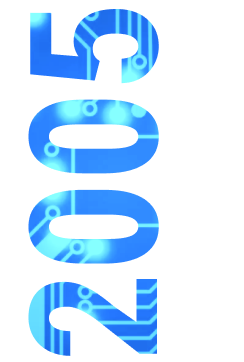
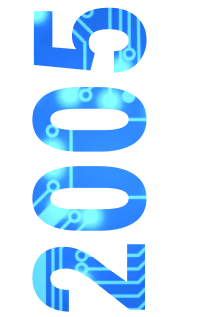
Добавлен блок о компании

diff --git a/source/index.html b/source/index.html
@@ -52,48 +52,69 @@
           </picture>
         </div>
       </section>
-      <section class="features wrapper wrapper--small">
-        <h2 class="visually-hidden">Наши преимущества</h2>
-        <ul class="features__list list-reset">
-          <li class="features__item features__item--timing">
-            <svg width="29" height="35" viewBox="0 0 29 35" fill="#00B2FF">
-              <use xlink:href="img/svg/sprite.svg#timing"></use>
-            </svg>
-            <h3 class="title">Оперативные сроки</h3>
+      <div class="bg-container">
+        <section class="features wrapper wrapper--small">
+          <h2 class="visually-hidden">Наши преимущества</h2>
+          <ul class="features__list list-reset">
+            <li class="features__item features__item--timing">
+              <svg width="29" height="35" viewBox="0 0 29 35" fill="#00B2FF">
+                <use xlink:href="img/svg/sprite.svg#timing"></use>
+              </svg>
+              <h3 class="title">Оперативные сроки</h3>
+              <p>
+                Усовершенствованная логистическая система позволяет нам просчитывать стоимость, производить и доставлять
+                заказы плат и комплектующих в самые короткие сроки
+              </p>
+            </li>
+            <li class="features__item features__item--suppliers">
+              <svg width="35" height="35" viewBox="0 0 35 35" fill="#00B2FF">
+                <use xlink:href="img/svg/sprite.svg#suppliers"></use>
+              </svg>
+              <h3 class="title">Крупные поставщики</h3>
+              <p>
+                Нашими поставщиками являются такие крупные мировые компании как: OSRAM, CREE, HOLGLITRONIC, REFOND.
+                Сотрудничество с такими компаниями обеспичивает хорошее качество нашей продукции.
+              </p>
+            </li>
+            <li class="features__item features__item--confidentiality">
+              <svg width="36" height="31" viewBox="0 0 36 31" fill="#00B2FF">
+                <use xlink:href="img/svg/sprite.svg#confidentiality"></use>
+              </svg>
+              <h3 class="title">Полная конфиденциальность</h3>
+              <p>По желанию клиента мы обеспечиваем полную конфеденциальность.</p>
+            </li>
+            <li class="features__item features__item--price">
+              <svg width="35" height="35" viewBox="0 0 35 35" fill="#00B2FF">
+                <use xlink:href="img/svg/sprite.svg#price"></use>
+              </svg>
+              <h3 class="title">Персонализация стоимости</h3>
+              <p>
+                Мы подбираем определенную фабрику, поставщиков, вид доставки, чтобы установить ту цену, которая Вас
+                устраивает.
+              </p>
+            </li>
+          </ul>
+        </section>
+        <section class="info wrapper wrapper--small">
+          <div class="info__wrapper">
+            <h2 class="title">О компании</h2>
             <p>
-              Усовершенствованная логистическая система позволяет нам просчитывать стоимость, производить и доставлять
-              заказы плат и комплектующих в самые короткие сроки
+              Мы поставляем электронные комплектующие, производим печатные платы и предоставляем мировые технологии с
+              1997 года. Выполняем срочные заказы и пилотные образцы до 10 дней.
             </p>
-          </li>
-          <li class="features__item features__item--suppliers">
-            <svg width="35" height="35" viewBox="0 0 35 35" fill="#00B2FF">
-              <use xlink:href="img/svg/sprite.svg#suppliers"></use>
-            </svg>
-            <h3 class="title">Крупные поставщики</h3>
             <p>
-              Нашими поставщиками являются такие крупные мировые компании как: OSRAM, CREE, HOLGLITRONIC, REFOND.
-              Сотрудничество с такими компаниями обеспичивает хорошее качество нашей продукции.
+              Наши поставщики - мировые производители электронных компонентов: OSRAM, CREE, HOLGLITRONIC, REFOND.
+              Печатные платы и комплектующие Service Devices применяются на предприятиях Российских Железных Дорог
+              <span class="info__text-short">..</span
+              ><span class="info__text-long"
+                >(РЖД), РоссАвтоПрома (ВАЗ, АвтоГАЗ), МинАтома, СпецМедТехники. Среди наших клиентов крупнейшие
+                Производители светотехники России.</span
+              >
             </p>
-          </li>
-          <li class="features__item features__item--confidentiality">
-            <svg width="36" height="31" viewBox="0 0 36 31" fill="#00B2FF">
-              <use xlink:href="img/svg/sprite.svg#confidentiality"></use>
-            </svg>
-            <h3 class="title">Полная конфиденциальность</h3>
-            <p>По желанию клиента мы обеспечиваем полную конфеденциальность.</p>
-          </li>
-          <li class="features__item features__item--price">
-            <svg width="35" height="35" viewBox="0 0 35 35" fill="#00B2FF">
-              <use xlink:href="img/svg/sprite.svg#price"></use>
-            </svg>
-            <h3 class="title">Персонализация стоимости</h3>
-            <p>
-              Мы подбираем определенную фабрику, поставщиков, вид доставки, чтобы установить ту цену, которая Вас
-              устраивает.
-            </p>
-          </li>
-        </ul>
-      </section>
+            <a href="#" class="info__link button button--colorized">Подробнее</a>
+          </div>
+        </section>
+      </div>
     </main>
     <footer class="footer">
       <div class="footer__wrapper wrapper">

diff --git a/source/sass/blocks/features.scss b/source/sass/blocks/features.scss
@@ -1,0 +1,105 @@
+.features {
+  padding-top: 110px;
+  padding-bottom: 110px;
+
+  @media (max-width: $tablet-width-max) {
+    padding-top: 54px;
+    padding-bottom: 60px;
+  }
+
+  @media (max-width: $mobile-width-max) {
+    padding-top: 37px;
+  }
+}
+
+.features__list {
+  display: flex;
+  flex-wrap: wrap;
+  justify-content: space-between;
+  margin-bottom: -30px;
+
+  @media (max-width: $mobile-width-max) {
+    flex-direction: column;
+    align-items: center;
+    margin-bottom: -30px;
+  }
+}
+
+.features__item {
+  position: relative;
+  box-sizing: border-box;
+  margin-bottom: 30px;
+  padding: 98px 43px 65px;
+  width: 48.7%;
+  background-color: $white;
+  border: 1px solid $decoration-gray;
+  border-left-width: 3px;
+  border-left-color: $blue;
+
+  &:hover {
+    background-color: $blue;
+    border-color: $blue;
+
+    svg {
+      fill: $white;
+    }
+
+    h3,
+    p {
+      color: $white;
+    }
+  }
+
+  svg {
+    position: absolute;
+    left: 43px;
+    top: 40px;
+  }
+
+  h3 {
+    margin-bottom: 15px;
+    color: $blue;
+    font-size: 24px;
+    line-height: 33.75px;
+  }
+
+  p {
+    margin: 0;
+    color: $dark-gray;
+  }
+
+  @media (max-width: $tablet-width-max) {
+    padding: 69px 25px 22px;
+    border-left-width: 2px;
+
+    svg {
+      left: 25px;
+      top: 24px;
+    }
+  }
+
+  @media (max-width: $mobile-width-max) {
+    padding-top: 71px;
+    margin-bottom: 30px;
+    width: 290px;
+
+    &--timing {
+      padding-bottom: 26px;
+    }
+
+    &--suppliers {
+      padding-right: 12px;
+      padding-bottom: 30px;
+    }
+
+    &--confidentiality {
+      padding-right: 12px;
+      padding-bottom: 59px;
+    }
+
+    h3 {
+      font-size: 20px;
+      line-height: 28.13px;
+    }
+  }
+}

diff --git a/source/sass/blocks/info.scss b/source/sass/blocks/info.scss
@@ -1,0 +1,100 @@
+.info {
+  padding-bottom: 110px;
+  color: $dark-gray;
+
+  h2 {
+    margin-bottom: 18px;
+    font-size: 36px;
+    line-height: 50.63px;
+  }
+
+  p {
+    margin: 0;
+  }
+
+  p:first-of-type {
+    margin-bottom: 23px;
+  }
+
+  @media (max-width: $tablet-width-max) {
+    padding-bottom: 83px;
+
+    h2 {
+      font-size: 32px;
+      line-height: 45px;
+    }
+
+    p:first-of-type {
+      margin-bottom: 21px;
+    }
+  }
+
+  @media (max-width: $mobile-width-max) {
+    padding-bottom: 65px;
+
+    h2 {
+      font-size: 28px;
+      line-height: 39px;
+    }
+
+    p:first-of-type {
+      margin-bottom: 44px;
+    }
+  }
+}
+
+.info__wrapper {
+  position: relative;
+  padding-left: 180px;
+
+  &::before {
+    content: "";
+    position: absolute;
+    top: 0;
+    left: -30px;
+    width: 180px;
+    height: 317px;
+    background-image: url("../img/year@1x.png");
+    background-size: cover;
+  }
+
+  @media (max-width: $tablet-width-max) {
+    padding-left: 185px;
+
+    &::before {
+      height: 361px;
+    }
+  }
+
+  @media (max-width: $mobile-width-max) {
+    padding-left: 0;
+
+    &::before {
+      display: none;
+    }
+  }
+}
+
+.info__text-long {
+  @media (max-width: $tablet-width-max) {
+    display: none;
+  }
+}
+
+.info__text-short {
+  display: none;
+
+  @media (max-width: $tablet-width-max) {
+    display: inline-block;
+    margin-left: -10px;
+  }
+}
+
+.info__link {
+  margin-top: 40px;
+  min-width: 180px;
+
+  @media (max-width: $mobile-width-max) {
+    margin-top: 30px;
+  }
+}

diff --git a/source/sass/blocks/bg-container.scss b/source/sass/blocks/bg-container.scss
@@ -1,0 +1,14 @@
+.bg-container {
+  background-image: url("../img/svg/bg-features-desktop.svg");
+  background-repeat: no-repeat;
+  background-position: -290px -50px;
+
+  @media (max-width: $tablet-width-max) {
+    background-image: url("../img/svg/bg-features-tablet.svg");
+    background-position: 200px 145px;
+  }
+
+  @media (max-width: $mobile-width-max) {
+    background-position: -120px 652px;
+  }
+}

diff --git a/source/sass/blocks/button.scss b/source/sass/blocks/button.scss
@@ -1,4 +1,6 @@
 .button {
+  display: inline-block;
+  vertical-align: top;
   box-sizing: border-box;
   padding: 15px 12px 12px;
   background-color: transparent;
@@ -12,6 +14,11 @@
   letter-spacing: 0.05em;
   text-transform: uppercase;
   text-align: center;
+
+  &--colorized {
+    color: $blue;
+    border-color: $blue;
+  }
 
   &:hover,
   &:focus {

diff --git a/source/sass/style.scss b/source/sass/style.scss
@@ -11,4 +11,6 @@
 @import "blocks/nav.scss";
 @import "blocks/footer.scss";
 @import "blocks/promo.scss";
+@import "blocks/bg-container.scss";
 @import "blocks/features.scss";
+@import "blocks/info.scss";
